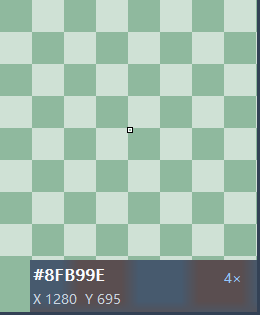
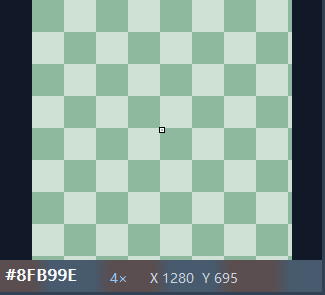
fix(picker): place frozen color and coordinates in one row

diff --git a/src/ui/windows/magnifier.rs b/src/ui/windows/magnifier.rs
@@ -30,7 +30,6 @@ use super::frost::FrostedPanel;
 use crate::{
     app::{config::AppearanceConfig, diagnostics},
     core::{
-        color::Rgb8,
         format::{ColorFormat, format_color},
         geometry::{ScreenPointPx, ScreenRectPx},
         state::{PickedColor, SampleKind},
@@ -54,12 +53,9 @@ struct State {
 
 #[derive(Default)]
 struct Footer {
-    rgb: Option<Rgb8>,
     hex: Vec<u16>,
     scale: Vec<u16>,
     coordinates: Vec<u16>,
-    x: Vec<u16>,
-    y: Vec<u16>,
 }
 
 impl State {
@@ -92,12 +88,9 @@ impl State {
             },
         );
         self.footer = Footer {
-            rgb: self.hover.map(|pixel| pixel.rgb),
             hex: hex.encode_utf16().collect(),
             scale: format!("{factor}×").encode_utf16().collect(),
             coordinates: format!("{x}  {y}").encode_utf16().collect(),
-            x: x.encode_utf16().collect(),
-            y: y.encode_utf16().collect(),
         };
     }
 
@@ -411,10 +404,15 @@ fn window_layout(
             / initial_scale
             * initial_scale
     };
-    let width = axis(image_width, i64::from(work.width()));
-    let footer = i64::from(footer_height(width as i32, dpi));
+    let viewport_width = axis(image_width, i64::from(work.width()));
+    // Text follows display scaling; source pixels keep their exact integer
+    // magnification. Reserve a single row without stretching the pixel grid.
+    let width = viewport_width
+        .max(i64::from(dip(260, dpi)))
+        .min(i64::from(work.width()));
+    let footer = i64::from(footer_height(dpi));
     let viewport_height = axis(image_height, i64::from(work.height()) - footer);
-    if width < 32 || viewport_height < 32 {
+    if viewport_width < 32 || viewport_height < 32 {
         return Err(failure("工作区空间不足，无法显示完整像素格"));
     }
     let height = viewport_height + footer;
@@ -428,36 +426,39 @@ fn window_layout(
         right: (left + width) as i32,
         bottom: (top + height) as i32,
     };
+    // Near a monitor edge, keep the original pointer over the pixel grid,
+    // rather than over the extra space reserved for the information row.
+    let viewport_left =
+        (i64::from(focus.x) - viewport_width / 2).clamp(left, left + width - viewport_width);
     let viewport = ScreenRectPx {
-        left: bounds.left,
+        left: viewport_left as i32,
         top: bounds.top,
-        right: bounds.right,
+        right: (viewport_left + viewport_width) as i32,
         bottom: (top + viewport_height) as i32,
     };
     Ok((bounds, viewport))
 }
 
-fn compact_footer(width: i32, dpi: u32) -> bool {
-    // The heading-font HEX plus swatch, badge and widest border needs more
-    // than 132 DIP. Edge captures must use the smaller, swatch-free layout.
-    width < dip(144, dpi)
+fn footer_height(dpi: u32) -> i32 {
+    dip(28, dpi)
 }
 
-fn narrow_footer(width: i32, dpi: u32) -> bool {
-    width < dip(88, dpi)
-}
-
-fn footer_height(width: i32, dpi: u32) -> i32 {
-    // Edge captures can be only 33 source pixels wide. Stack the coordinates
-    // there, and the zoom badge at high DPI, to retain legible full labels.
-    let height = if narrow_footer(width, dpi) {
-        68
-    } else if compact_footer(width, dpi) {
-        54
-    } else {
-        44
+fn footer_columns(width: i32, dpi: u32, border: i32) -> [RECT; 3] {
+    let right = (width - border - dip(4, dpi)).max(0);
+    let column = |left, top, end| RECT {
+        left: dip(left, dpi).min(right),
+        top: dip(top, dpi),
+        right: dip(end, dpi).min(right),
+        bottom: footer_height(dpi) - border,
     };
-    dip(height, dpi)
+    [
+        column(4, 3, 84),
+        column(88, 6, 112),
+        RECT {
+            right,
+            ..column(120, 6, 120)
+        },
+    ]
 }
 
 fn compact_rows(image: &mut FrozenImage) -> Result<()> {
@@ -588,14 +589,9 @@ impl Surface {
         let heading_font = OwnedFont::new(13, 600, dpi)?;
         let body_font = OwnedFont::new(10, 400, dpi)?;
         let frost = if capture_excluded && appearance.background_transparency_percent != 0 {
-            let panel_left = if compact_footer(width, dpi) {
-                0
-            } else {
-                dip(24, dpi)
-            };
             match FrostedPanel::new(
-                width - panel_left,
-                footer_height(width, dpi),
+                width,
+                footer_height(dpi),
                 dip(6, dpi),
                 appearance.background_transparency_percent,
             ) {
@@ -773,11 +769,9 @@ impl Surface {
             },
             palette::PANEL,
         )?;
-        let compact = compact_footer(self.width, self.dpi);
-        let narrow = narrow_footer(self.width, self.dpi);
         if let Some(frost) = &self.frost {
             let panel = RECT {
-                left: if compact { 0 } else { dip(24, self.dpi) },
+                left: 0,
                 top,
                 right: self.width,
                 bottom: self.height,
@@ -798,83 +792,32 @@ impl Surface {
                 self.fill(panel, palette::PANEL)?;
             }
         }
-        let text_left = if compact {
-            // The image already displays this color. Omit the redundant swatch
-            // when an edge crop needs the available width for labels.
-            dip(2, self.dpi)
-        } else {
-            let swatch = RECT {
-                left: 0,
-                top,
-                right: dip(24, self.dpi),
-                bottom: self.height,
-            };
-            self.fill(
-                swatch,
-                footer.rgb.map_or(palette::EMPTY, |rgb| {
-                    COLORREF(u32::from(rgb.r) | (u32::from(rgb.g) << 8) | (u32::from(rgb.b) << 16))
-                }),
-            )?;
-            swatch.right + dip(2, self.dpi)
-        };
         let border = border_thickness(
             self.width,
             self.height,
             self.dpi,
             self.appearance.border_width_dip,
         );
-        let right = self.width - border - dip(2, self.dpi);
-        let badge_left = (right - dip(24, self.dpi)).max(text_left);
-        draw_text(
-            self.dc.0,
-            if compact {
-                &self.body_font
-            } else {
-                &self.heading_font
-            },
-            RECT {
-                left: text_left,
-                top: top + dip(if compact { 6 } else { 3 }, self.dpi),
-                right: if narrow {
-                    right
-                } else {
-                    badge_left - dip(2, self.dpi)
-                },
-                bottom: top + dip(22, self.dpi),
-            },
-            palette::TEXT,
-            &footer.hex,
-        )?;
-        draw_text(
-            self.dc.0,
-            &self.body_font,
-            RECT {
-                left: if narrow { text_left } else { badge_left },
-                top: top + dip(if narrow { 20 } else { 6 }, self.dpi),
-                right,
-                bottom: top + dip(if narrow { 34 } else { 22 }, self.dpi),
-            },
-            palette::ACCENT,
-            &footer.scale,
-        )?;
-        let coordinate_rows: &[(i32, &[u16])] = if narrow {
-            &[(34, &footer.x), (48, &footer.y)]
-        } else if compact {
-            &[(22, &footer.x), (36, &footer.y)]
-        } else {
-            &[(23, &footer.coordinates)]
-        };
-        for &(offset, text) in coordinate_rows {
+        let columns = footer_columns(self.width, self.dpi, border);
+        for (rect, font, color, text) in [
+            (columns[0], &self.heading_font, palette::TEXT, &footer.hex),
+            (columns[1], &self.body_font, palette::ACCENT, &footer.scale),
+            (
+                columns[2],
+                &self.body_font,
+                palette::SECONDARY,
+                &footer.coordinates,
+            ),
+        ] {
             draw_text(
                 self.dc.0,
-                &self.body_font,
+                font,
                 RECT {
-                    left: text_left,
-                    top: top + dip(offset, self.dpi),
-                    right,
-                    bottom: self.height - border,
+                    top: top + rect.top,
+                    bottom: (top + rect.bottom).min(self.height - border),
+                    ..rect
                 },
-                palette::SECONDARY,
+                color,
                 text,
             )?;
         }
@@ -1042,40 +985,29 @@ mod tests {
     }
 
     #[test]
-    fn edge_footer_has_room_for_full_labels_at_supported_desktop_scaling() {
+    fn single_row_footer_has_room_for_full_labels_at_supported_desktop_scaling() {
         for dpi in [96, 120, 144, 168, 192] {
-            let width = 132;
-            let compact = compact_footer(width, dpi);
-            let narrow = narrow_footer(width, dpi);
-            let surface =
-                Surface::new(640, dip(24, dpi), dpi, false, AppearanceConfig::default()).unwrap();
-            let left = dip(if compact { 2 } else { 26 }, dpi);
+            let width = dip(260, dpi);
+            let surface = Surface::new(
+                640,
+                footer_height(dpi),
+                dpi,
+                false,
+                AppearanceConfig::default(),
+            )
+            .unwrap();
             // Test against the thickest supported border, including a 5-digit
             // negative source coordinate and the widest common HEX glyphs.
-            let right = width - dip(8, dpi);
-            let hex_width = if narrow {
-                right - left
-            } else {
-                right - left - dip(26, dpi)
-            };
+            let columns = footer_columns(width, dpi, dip(6, dpi));
+            assert!(columns[0].right < columns[1].left);
+            assert!(columns[1].right < columns[2].left);
+            assert!(columns[0].top < columns[2].bottom && columns[2].top < columns[0].bottom);
             let rows = [
-                ("#DDDDDD", hex_width, !compact),
-                (
-                    "32×",
-                    if narrow { right - left } else { dip(24, dpi) },
-                    false,
-                ),
-                (
-                    if compact {
-                        "X -65535"
-                    } else {
-                        "X -65535  Y -65535"
-                    },
-                    right - left,
-                    false,
-                ),
+                ("#DDDDDD", columns[0], true),
+                ("32×", columns[1], false),
+                ("X -65535  Y -65535", columns[2], false),
             ];
-            for (label, available, heading) in rows {
+            for (label, column, heading) in rows {
                 let rect = RECT {
                     left: 0,
                     top: 0,
@@ -1103,8 +1035,20 @@ mod tests {
                     })
                     .unwrap();
                 assert!(
-                    last_ink < available,
-                    "{label} clips at {dpi} DPI: {last_ink} >= {available}"
+                    last_ink < column.right - column.left,
+                    "{label} clips at {dpi} DPI: {last_ink} >= {}",
+                    column.right - column.left
+                );
+                let last_row = (0..surface.height)
+                    .rev()
+                    .find(|&y| {
+                        (0..surface.width)
+                            .any(|x| unsafe { GetPixel(surface.dc.0, x, y) } != palette::PANEL)
+                    })
+                    .unwrap();
+                assert!(
+                    last_row < column.bottom - column.top,
+                    "{label} clips vertically at {dpi} DPI"
                 );
             }
         }
@@ -1219,12 +1163,13 @@ mod tests {
             assert_eq!(window.intersection(work), Some(window));
             assert_eq!(viewport.width(), viewport.height());
             assert_eq!(viewport.width(), dip(240, dpi).min(260) as u32 / 4 * 4);
-            assert_eq!(viewport.left, window.left);
+            assert!(viewport.left >= window.left && viewport.right <= window.right);
+            assert!(viewport.contains(ScreenPointPx { x: -1199, y: -699 }));
             assert_eq!(viewport.top, window.top);
-            assert_eq!(window.width(), viewport.width());
+            assert_eq!(window.width(), dip(260, dpi) as u32);
             assert_eq!(
                 window.height(),
-                viewport.height() + footer_height(window.width() as i32, dpi) as u32
+                viewport.height() + footer_height(dpi) as u32
             );
             assert!(viewport.width() >= 32);
             assert!(viewport.bottom < window.bottom);
@@ -1258,8 +1203,9 @@ mod tests {
             window_layout(ScreenPointPx { x: -1, y: -1 }, work, 168, 33, 65).unwrap();
         assert_eq!(viewport.width(), 132);
         assert_eq!(viewport.height(), 260);
-        assert_eq!(window.height(), 379);
-        assert!(compact_footer(window.width() as i32, 168));
+        assert_eq!(window.height(), 309);
+        assert_eq!(window.width(), dip(260, 168) as u32);
+        assert!(viewport.left <= -1 && viewport.right > -1);
         assert_eq!(window.intersection(work), Some(window));
         let mut view = ZoomView::new(
             image(33, 65),
@@ -1304,7 +1250,7 @@ mod tests {
         };
         let (window, viewport) =
             window_layout(ScreenPointPx { x: -1, y: -1 }, small_work, 96, 65, 65).unwrap();
-        assert_eq!((viewport.width(), viewport.height()), (116, 48));
+        assert_eq!((viewport.width(), viewport.height()), (116, 72));
         assert_eq!(window.intersection(small_work), Some(window));
     }
 

diff --git a/docs/ui-preview.md b/docs/ui-preview.md
@@ -37,9 +37,10 @@
 实时浮窗默认 168×38 DIP，左侧色块贴边铺满高度，HEX / 坐标使用 13 / 10 DIP 字号。
 边框超过 2 DIP 时按需增加高度，最大 42 DIP，避免底边遮挡坐标；设置预览共用这一布局。
 冻结像素区取消外围边距，按快照在初始 4× 下的实际物理像素范围收紧（每轴上限 240 DIP，
-并限制在工作区内）；边缘裁剪的快照允许矩形视口。信息栏显示当前 hover 像素的 HEX、
-倍率和原始物理屏幕 X/Y；移到信息栏、边框或无效像素时显示占位符。
-信息栏按宽度使用 44 / 54 / 68 DIP 高度，窄浮窗将坐标和倍率分行，保留完整色值。
+并限制在工作区内）；边缘裁剪的快照允许矩形视口。信息栏固定为 28 DIP 单行，
+左列显示当前 hover 像素的 HEX 与倍率，右列显示原始物理屏幕 X/Y；
+移到信息栏、边框或无效像素时显示占位符。窗口为文字预留至少 260 DIP 宽度，
+仍受工作区宽度限制；像素区保持整数倍率，在新增空间中居中，屏幕边缘时靠近鼠标一侧。
 极窄缓存保留每轴至少 32 个物理像素，以支持最高倍率；缩放时保留完整整数像素格所需的
 少量对称余量，不拉伸图像填充。两种浮窗均移除操作说明，统一放在设置页。
 冻结模式窗外左键取消取色，窗口内边框、留白和信息栏继续等待有效选择。
@@ -109,6 +110,6 @@ cargo run --example ui-preview -- result --color=F4F2F2 --output=target/result-p
 
 ![冻结放大](images/ui-frozen.png)
 
-屏幕边缘的窄快照使用紧凑信息栏，省略重复色块，保留 HEX、倍率和源坐标：
+屏幕边缘的窄快照保持原始像素比例，信息栏仍在同一行显示色值与坐标：
 
 ![边缘快照](images/ui-frozen-edge.png)
